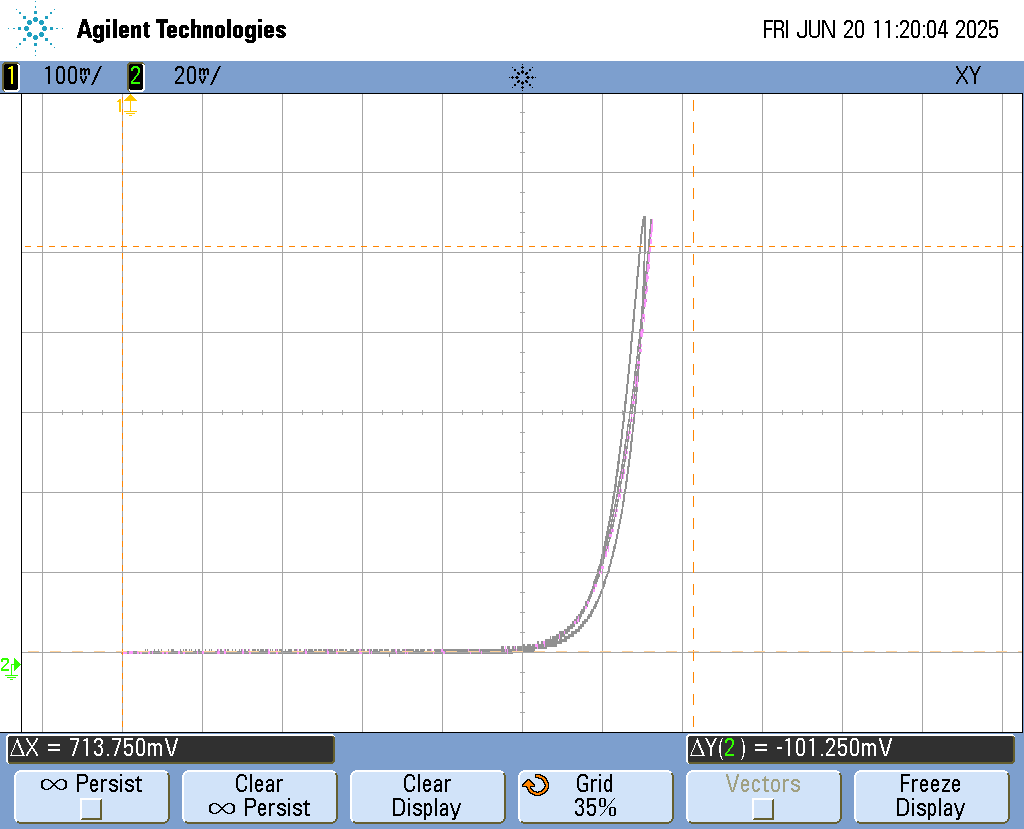
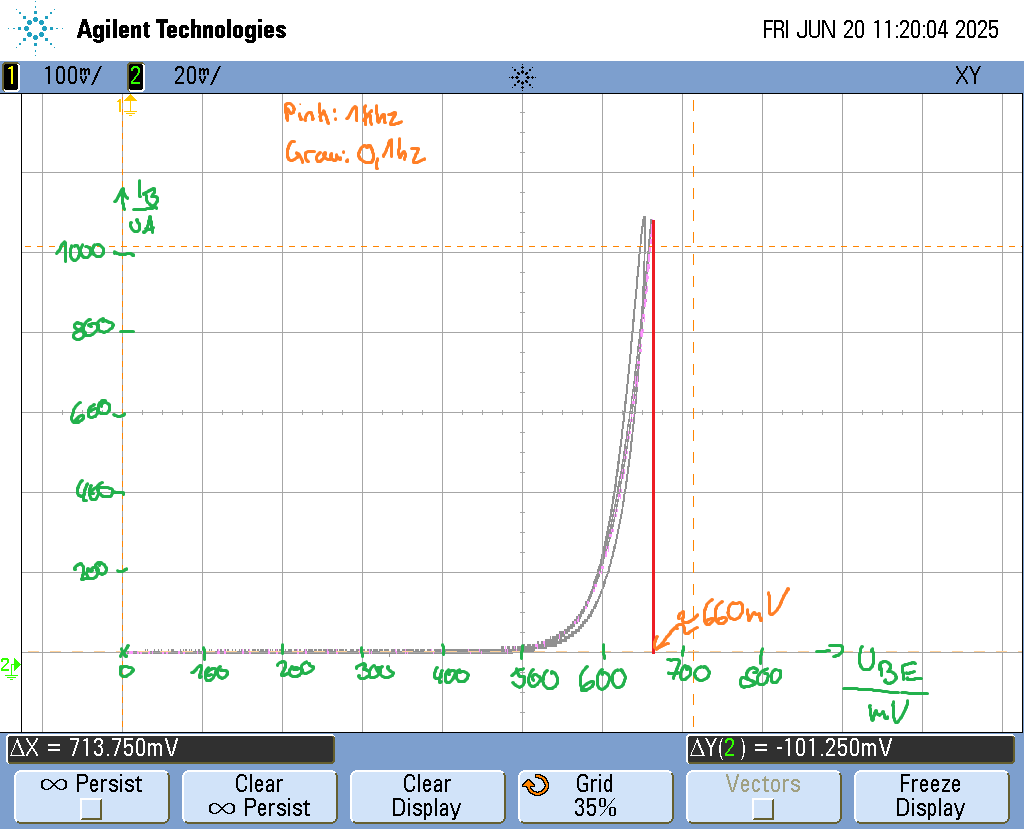
Temperaturverhaltne fertig

diff --git a/template.tex b/template.tex
@@ -171,10 +171,17 @@ Der Basisstrom wird über den Spannungsabfall an $R_B$ bestimmt.
 	\includegraphics[width=0.8\textwidth]{Figures/TemperaturHysterese8V0.1hznah.png}
 	\caption{Hysterese des BD137-16 bei $U_{CE} = 8\,\mathrm{V}$ und $f = 0{,}1\,\mathrm{Hz}$.}
 	\label{fig:8VTemperaturHysterese0.1hznah}
-\end{figure}\begin{figure}[H]
+\end{figure}
+\begin{figure}[H]
+	\centering
+	\includegraphics[width=0.8\textwidth]{Figures/temp2v1khz.png}
+	\caption{Eingangskennlinie bei $\SI{2}{\volt}$ und $\SI{1}{\kilo\hertz}$.}
+	\label{fig:2V1eingang}
+\end{figure}
+\begin{figure}[H]
 	\centering
 	\includegraphics[width=0.8\textwidth]{Figures/8V1khz0.1hzzusammentemp.png}
-	\caption{Temperaturverhalten des BD137-16 bei $U_{CE} = 8\,\mathrm{V}$ und $f = 0{,}1\,\mathrm{Hz}$.}
+	\caption{Temperaturverhalten bei $U_{CE} = \SI{8}{\volt}$ und $f = 0{,}1\,\mathrm{Hz}$ sowie $f = \SI{1}{\kilo\hertz}$.}
 	\label{fig:8V1khz0.1hzzusammentemp}
 \end{figure}
 
@@ -314,7 +321,21 @@ r_{BE} = \frac{\Delta U_{BE}}{\Delta I_B} = \frac{50\,\text{mV}}{750\,\mu\text{A
 \paragraph{a) Schätzen Sie aus den Messungen aus B.1.3 für $U_{CE} = \SI{8}{\volt}$ und $f = \SI{0.1}{\hertz}$ die Erwärmung im Vergleich zu $U_{CE} = \SI{2}{\volt}$ sowie den maximalen Temperaturunterschied zwischen Kalt- und Warmkennlinie ab.}
 Aufgrund der Hysteresekurve bei $U_{CE} = \SI{8}{\volt}$ im Vergleich zu $U_{CE} = \SI{2}{\volt}$ lässt sich eine deutlich höhere Temperatur bei höherer Spannung vermuten. 
 Bei $U_{CE} = \SI{8}{\volt}$ lässt sich zwischen $f = \SI{0.1}{\hertz}$ und $f = \SI{1}{\kilo\hertz}$ einen Unterschied in der Hysteresekurve erkennen. Diese ist bei der niedrigeren Frequenz viel Stärker ausgeprägt.  
+Die erhöhte Temperatur hat tendenziell ein Verschieben der Eingangskennlinie nach links zur Folge, etwa $\frac{\SI{2}{\milli\volt}}{\SI{}{\kelvin}}$. 
+Mit Abbildung \ref{fig:2V1eingang} und Abbildung \ref{fig:8V1khz0.1hzzusammentemp} lässt sich $\Delta U_{BE}$ zu $\SI{710}{\milli\volt} - \SI{660}{\milli\volt} = \SI{60}{\milli\volt}$ bestimmen.
+\[
+\Delta T = \frac{\Delta U}{\frac{\SI{2}{\milli\volt}}{\SI{}{\kelvin}}} = \SI{30}{\kelvin}
+\]
+\paragraph{b) Schätzen Sie aus der zweiten Messung die maximale Chiptemperatur sowie die Abkühlrate bei dieser
+Temperatur in $\SI{}{\kelvin\per\second}$ ab.}
 
+Der in a) angenommene Temperaturunterschied muss zur Raumtemperatur addiert werden, um die Chiptemperatur zu bestimmen: $\Delta T + \SI{23}{\degreeCelsius} = \SI{53}{\degreeCelsius}$.
+Die Abkühlrate kann mit hilfe der Kennlinie in Abbildung \ref{fig:8VTemperaturHysterese0.1hznah} bestimmt werden.
+Da die Frequenz bei hoher Hysterese $\SI{0.1}{\hertz}$ beträgt, bedeutet dies, dass die Abkühldauer $\SI{5}{\second}$ beträgt. 
+\[
+\Delta U_{BE,H} = \SI{12.5}{\milli\volt} \rightarrow \Delta T = \frac{\Delta U_{BE,H}}{\frac{\SI{2}{\milli\volt}}{\SI{}{\kelvin}}} = \SI{6.25}{\kelvin}
+\rightarrow \frac{\Delta T}{\SI{5}{\second}} = \SI{1.25}{\kelvin\per\second}
+\]
 %
 %Das Temperaturverhalten des Transistor lässt sich mithilfe des Datenblatt bestimmen. 
 %\[
